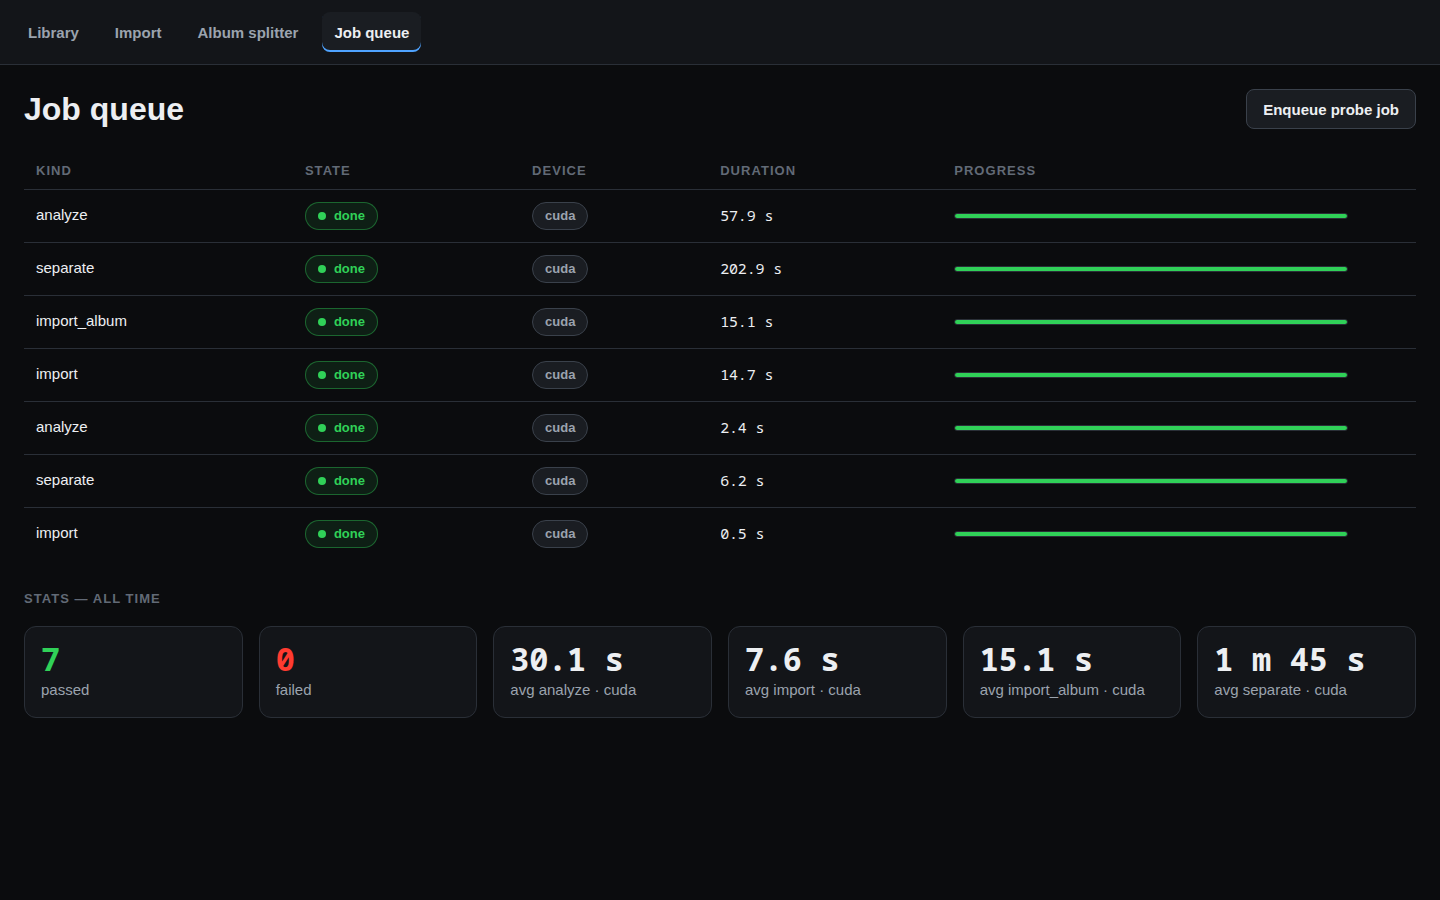
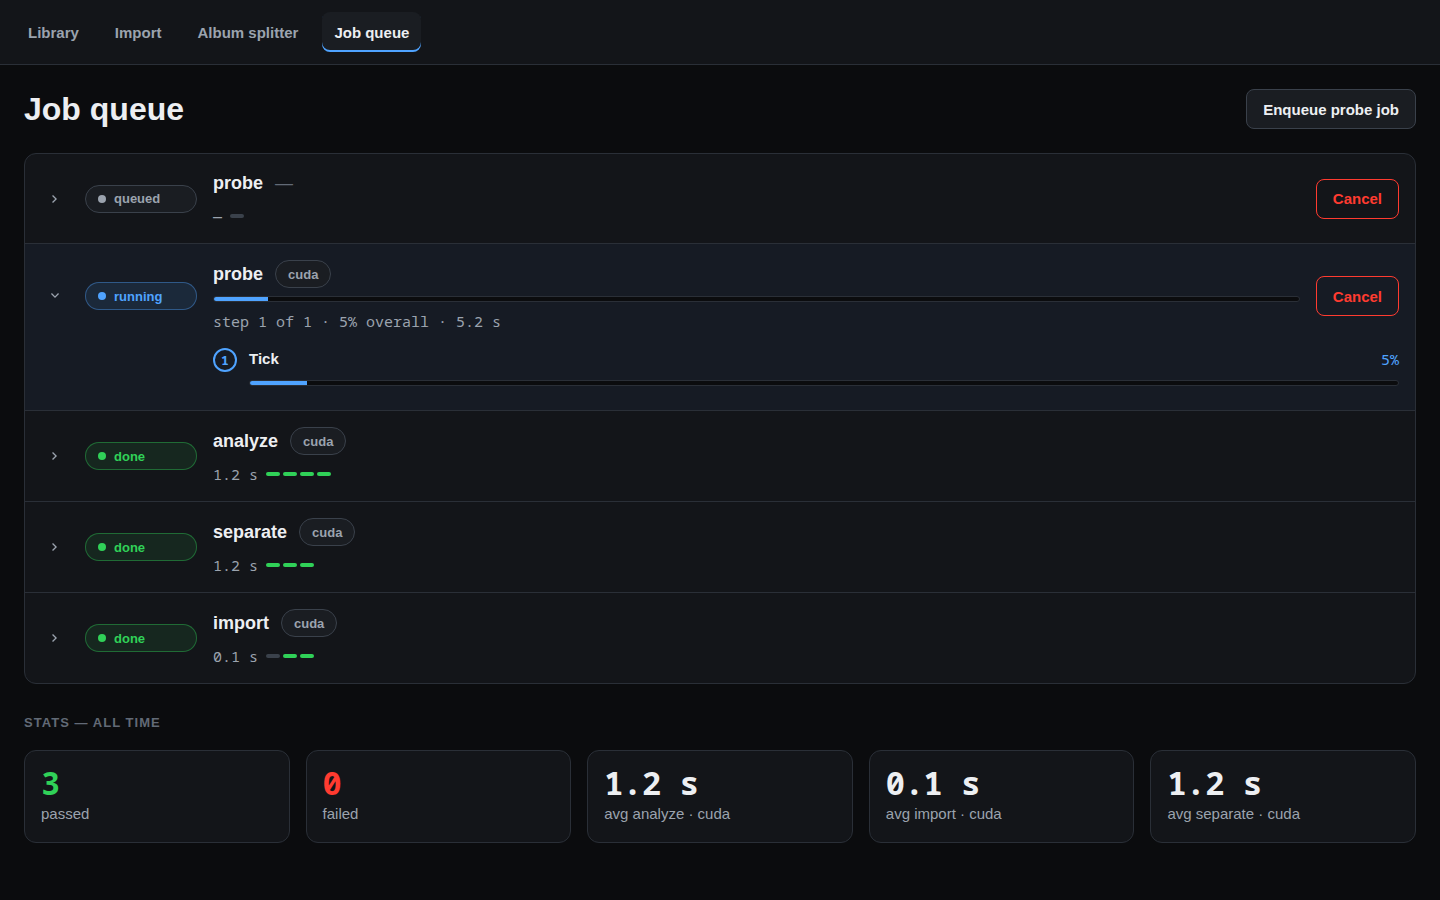
docs(ui): job steps and Import modal in the design system, README and screenshots

diff --git a/design/ui/src/pages/screens/job-queue.html b/design/ui/src/pages/screens/job-queue.html
@@ -1,11 +1,41 @@
-<!-- @dsCard group="Screens" name="Job queue" subtitle="The real operational dashboard (§10): live, history, stats" viewport="1440x1350" -->
+<!-- @dsCard group="Screens" name="Job queue" subtitle="Every job expands to its named, live steps" viewport="1440x1350" -->
 <!doctype html><html lang="en"><head><meta charset="utf-8"><title>Jobs — Stemcraft</title><style>/* @inject */
 .stats{display:grid;grid-template-columns:repeat(auto-fit,minmax(180px,1fr));gap:var(--ds-4)}
 .stat{padding:var(--ds-4);display:flex;flex-direction:column;gap:var(--ds-1)}
 .stat .v{font:600 var(--ds-t-xl)/1 var(--ds-mono);font-variant-numeric:tabular-nums}
-.jobrow{display:grid;grid-template-columns:120px 1fr 200px;gap:var(--ds-4);align-items:center;padding:var(--ds-4);border-bottom:1px solid var(--ds-border)}
-.jobrow:last-child{border-bottom:0}
 .tbl td.num,.tbl th.num{font-family:var(--ds-mono);font-variant-numeric:tabular-nums}
+/* ---- shared StepList component ---- */
+.steps{display:flex;flex-direction:column;gap:var(--ds-3)}
+.step{display:grid;grid-template-columns:24px 1fr auto;column-gap:var(--ds-3);align-items:start;font-size:var(--ds-t-sm)}
+.step .mark{width:24px;height:24px;border-radius:50%;border:2px solid var(--ds-border-strong);display:flex;align-items:center;justify-content:center;font:700 13px/1 var(--ds-mono);color:var(--ds-text-3)}
+.step .lbl{padding-top:1px;min-width:0}
+.step .det{color:var(--ds-text-3);font-weight:400;margin-left:var(--ds-2)}
+.step .dur{padding-top:1px;font-family:var(--ds-mono);font-variant-numeric:tabular-nums;color:var(--ds-text-3)}
+.step .extra{grid-column:2 / 4;margin-top:var(--ds-2)}
+.step.done .mark{background:var(--ds-ok);border-color:var(--ds-ok);color:var(--ds-ground)}
+.step.now .mark{border-color:var(--ds-accent);color:var(--ds-accent)}
+.step.fail .mark{background:var(--ds-error);border-color:var(--ds-error);color:var(--ds-on-error)}
+.step.skip .mark{border-style:dashed;color:var(--ds-text-3)}
+.step.cxl .mark{border-color:var(--ds-text-3);color:var(--ds-text-3)}
+.step.done .lbl{color:var(--ds-text-2)} .step.now .lbl{color:var(--ds-text);font-weight:600}
+.step.todo .lbl,.step.skip .lbl,.step.cxl .lbl{color:var(--ds-text-3)} .step.skip .lbl{text-decoration:line-through}
+.step.fail .lbl{color:var(--ds-error);font-weight:600}
+.step.now .dur{color:var(--ds-accent)}
+/* ---- job rows ---- */
+.jobrow{display:grid;grid-template-columns:28px 112px 1fr auto;gap:var(--ds-4);align-items:center;padding:var(--ds-4);border-bottom:1px solid var(--ds-border)}
+.card > .job:last-child .jobrow,.card > .job:last-child .jobsteps{border-bottom:0}
+.disc{width:28px;height:28px;display:flex;align-items:center;justify-content:center;border:0;background:transparent;color:var(--ds-text-2);border-radius:var(--ds-r-input);cursor:pointer}
+.disc svg{width:18px;height:18px;fill:currentColor;transition:transform var(--ds-m-flip) var(--ds-ease)}
+.job[data-open=true] .disc svg{transform:rotate(90deg)}
+.jobsteps{padding:0 var(--ds-4) var(--ds-5) calc(var(--ds-4) + 28px + 112px + 2 * var(--ds-4));border-bottom:1px solid var(--ds-border)}
+.job.running .jobrow,.job.running .jobsteps{background:rgba(79,163,255,.05)}
+.ministeps{display:inline-flex;gap:3px;vertical-align:middle;margin-left:var(--ds-2)}
+.ministeps i{width:14px;height:4px;border-radius:2px;background:var(--ds-border-strong)}
+.ministeps i.d{background:var(--ds-ok)} .ministeps i.n{background:var(--ds-accent)} .ministeps i.f{background:var(--ds-error)}
+@media (max-width:760px){
+  .jobrow{grid-template-columns:28px 1fr auto}.jobrow > .chipcell{display:none}
+  .jobsteps{padding-left:var(--ds-4)}
+}
 </style></head><body><div class="app">
 
 <div class="topbar">
@@ -27,37 +57,70 @@
   </div>
 
   <div class="card">
-    <div class="jobrow" style="background:rgba(79,163,255,.06)">
-      <span class="chip chip-run"><i class="dot"></i>running</span>
-      <div class="col" style="gap:var(--ds-2);min-width:0">
-        <div class="row"><span class="t-md" style="font-weight:600">separate</span><span class="t-md dim">Teen Town — Weather Report</span><span class="chip chip-warn">cpu</span></div>
-        <div class="bar"><i style="width:18%"></i></div>
-        <span class="t-sm dim num">18% · segment 3 of 17 · started 0:41 ago · ~3 min left</span>
+    <!-- running, auto-open -->
+    <div class="job running" data-open="true">
+      <div class="jobrow">
+        <button class="disc" aria-expanded="true" aria-label="Hide steps"><svg viewBox="0 0 24 24"><path d="M9 6l6 6-6 6-1.4-1.4 4.6-4.6-4.6-4.6z"/></svg></button>
+        <span class="chipcell"><span class="chip chip-run"><i class="dot"></i>running</span></span>
+        <div class="col" style="gap:var(--ds-2);min-width:0">
+          <div class="row"><span class="t-md" style="font-weight:600">separate</span><span class="t-md dim">Tightrope · Walk the Moon</span><span class="chip">cuda</span></div>
+          <div class="bar"><i style="width:57%"></i></div>
+          <span class="t-sm dim num">step 2 of 3 · 57% overall · started 0:14 ago</span>
+        </div>
+        <button class="btn">Cancel</button>
       </div>
-      <div class="row" style="justify-content:flex-end"><button class="btn">Cancel</button></div>
+      <div class="jobsteps"><div class="steps">
+        <div class="step done"><span class="mark">&#10003;</span><span class="lbl">Load audio</span><span class="dur">0.4 s</span></div>
+        <div class="step now"><span class="mark">2</span><span class="lbl">Separate 4 stems<span class="det num">segment 11 of 17</span></span><span class="dur">62%</span>
+          <div class="extra"><div class="bar"><i style="width:62%"></i></div></div></div>
+        <div class="step todo"><span class="mark">3</span><span class="lbl">Write stems</span><span class="dur">—</span></div>
+      </div></div>
     </div>
-    <div class="jobrow">
-      <span class="chip"><i class="dot"></i>queued</span>
-      <div class="col" style="gap:2px"><div class="row"><span class="t-md" style="font-weight:600">separate</span><span class="t-md dim">Longview — Green Day</span></div><span class="t-sm dim3">1 job ahead</span></div>
-      <div class="row" style="justify-content:flex-end"><button class="btn btn-ghost">Cancel</button></div>
+    <!-- queued, collapsed -->
+    <div class="job" data-open="false">
+      <div class="jobrow">
+        <button class="disc" aria-expanded="false" aria-label="Show steps"><svg viewBox="0 0 24 24"><path d="M9 6l6 6-6 6-1.4-1.4 4.6-4.6-4.6-4.6z"/></svg></button>
+        <span class="chipcell"><span class="chip"><i class="dot"></i>queued</span></span>
+        <div class="col" style="gap:2px"><div class="row"><span class="t-md" style="font-weight:600">export</span><span class="t-md dim">Tightrope · no bass, 82%</span></div><span class="t-sm dim3">1 job ahead<span class="ministeps" aria-label="0 of 1 steps done"><i></i></span></span></div>
+        <button class="btn btn-ghost">Cancel</button>
+      </div>
     </div>
-    <div class="jobrow">
-      <span class="chip"><i class="dot"></i>queued</span>
-      <div class="col" style="gap:2px"><div class="row"><span class="t-md" style="font-weight:600">export</span><span class="t-md dim">Tightrope · no bass, 82%</span></div><span class="t-sm dim3">2 jobs ahead</span></div>
-      <div class="row" style="justify-content:flex-end"><button class="btn btn-ghost">Cancel</button></div>
+    <!-- queued, opened by the user -->
+    <div class="job" data-open="true">
+      <div class="jobrow">
+        <button class="disc" aria-expanded="true" aria-label="Hide steps"><svg viewBox="0 0 24 24"><path d="M9 6l6 6-6 6-1.4-1.4 4.6-4.6-4.6-4.6z"/></svg></button>
+        <span class="chipcell"><span class="chip"><i class="dot"></i>queued</span></span>
+        <div class="col" style="gap:2px"><div class="row"><span class="t-md" style="font-weight:600">split_album</span><span class="t-md dim">Rumours · Fleetwood Mac</span></div><span class="t-sm dim3">2 jobs ahead</span></div>
+        <button class="btn btn-ghost">Cancel</button>
+      </div>
+      <div class="jobsteps"><div class="steps">
+        <div class="step todo"><span class="mark">1</span><span class="lbl">Render tracks</span><span class="dur">—</span></div>
+        <div class="step todo"><span class="mark">2</span><span class="lbl">Build zip</span><span class="dur">—</span></div>
+      </div></div>
     </div>
   </div>
 
-  <div class="banner banner-error">
-    <span class="bicon"><svg viewBox="0 0 24 24"><path d="M12 2a10 10 0 100 20 10 10 0 000-20zm-1 5h2v7h-2zm0 9h2v2h-2z"/></svg></span>
-    <div class="banner-body grow">
-      <p class="banner-title" style="color:var(--ds-error)">analyze failed — Come Together</p>
-      <div class="trace">Traceback (most recent call last):
-  File "worker/jobs/analyze.py", line 64, in run
-    key = essentia.standard.KeyExtractor()(audio)
-RuntimeError: KeyExtractor: input audio is shorter than the analysis frame (2048)
-  stem: other.wav — 0.4 s of non-silence after separation</div>
-      <div class="row" style="margin-top:var(--ds-3)"><button class="btn">Re-run</button><button class="btn btn-ghost">Copy traceback</button><button class="btn btn-ghost">Open song</button></div>
+  <!-- failed job, inline -->
+  <div class="card">
+    <div class="job" data-open="true">
+      <div class="jobrow">
+        <button class="disc" aria-expanded="true" aria-label="Hide steps"><svg viewBox="0 0 24 24"><path d="M9 6l6 6-6 6-1.4-1.4 4.6-4.6-4.6-4.6z"/></svg></button>
+        <span class="chipcell"><span class="chip chip-error"><i class="dot"></i>failed</span></span>
+        <div class="col" style="gap:2px"><div class="row"><span class="t-md" style="font-weight:600">analyze</span><span class="t-md dim">Come Together · The Beatles</span><span class="chip">cpu</span></div><span class="t-sm num" style="color:var(--ds-error)">failed at step 1 of 4 · Key</span></div>
+        <span></span>
+      </div>
+      <div class="jobsteps"><div class="steps">
+        <div class="step fail"><span class="mark">!</span><span class="lbl">Key</span><span class="dur">0.6 s</span>
+          <div class="extra"><div class="trace" style="margin-top:0">Traceback (most recent call last):
+  File "stemcraft_worker/kinds/analyze_song.py", line 42, in run
+    key_candidates = detect_key(...)
+RuntimeError: input audio is shorter than the analysis frame (2048)
+  stem: other.wav: 0.4 s of non-silence after separation</div>
+          </div></div>
+        <div class="step todo"><span class="mark">2</span><span class="lbl">Beat grid</span><span class="dur">—</span></div>
+        <div class="step todo"><span class="mark">3</span><span class="lbl">Chords</span><span class="dur">—</span></div>
+        <div class="step todo"><span class="mark">4</span><span class="lbl">Write analysis</span><span class="dur">—</span></div>
+      </div></div>
     </div>
   </div>
 

diff --git a/design/ui/src/pages/screens/import.html b/design/ui/src/pages/screens/import.html
@@ -1,64 +1,48 @@
-<!-- @dsCard group="Screens" name="Import" subtitle="File or URL, prefilled tags, honest pipeline states" viewport="1200x1215" -->
+<!-- @dsCard group="Screens" name="Import" subtitle="One source zone, then the song's jobs step by step" viewport="1200x1215" -->
 <!doctype html><html lang="en"><head><meta charset="utf-8"><title>Import — Stemcraft</title><style>/* @inject */
+/* source zone */
+.source{border:2px dashed var(--ds-border-strong);border-radius:var(--ds-r-panel);padding:var(--ds-5);display:flex;flex-direction:column;gap:var(--ds-4);background:rgba(255,255,255,.015)}
+.source .filepart{text-align:center;color:var(--ds-text-2)}
+.or{display:flex;align-items:center;gap:var(--ds-3);color:var(--ds-text-3)}
+.or::before,.or::after{content:"";flex:1;height:1px;background:var(--ds-border)}
+.chosen{padding:var(--ds-3) var(--ds-4);gap:var(--ds-3)}
+.chosen .ico{color:var(--ds-ok);display:flex}
+.chosen .txt{min-width:0;overflow:hidden;text-overflow:ellipsis;white-space:nowrap}
 .grid2{display:grid;grid-template-columns:1fr 1fr;gap:var(--ds-4)}
+@media (max-width:520px){.grid2{grid-template-columns:1fr}}
+.hint{margin:calc(-1 * var(--ds-3)) 0 0}
+.req{color:var(--ds-accent)}
+/* steps (from the existing mockup) */
 .steps{display:flex;flex-direction:column;gap:var(--ds-3)}
-.step{display:flex;align-items:center;gap:var(--ds-3);font-size:var(--ds-t-sm)}
+.step{display:flex;align-items:flex-start;gap:var(--ds-3);font-size:var(--ds-t-sm)}
 .step .mark{width:24px;height:24px;border-radius:50%;border:2px solid var(--ds-border-strong);flex:none;display:flex;align-items:center;justify-content:center;font:700 13px/1 var(--ds-mono);color:var(--ds-text-3)}
+.step .body{display:flex;flex-direction:column;gap:var(--ds-2);flex:1;min-width:0;padding-top:1px}
 .step.done .mark{background:var(--ds-ok);border-color:var(--ds-ok);color:var(--ds-ground)}
 .step.now .mark{border-color:var(--ds-accent);color:var(--ds-accent)}
-.step.done span{color:var(--ds-text-2)}
-.step.now span{color:var(--ds-text);font-weight:600}
-.step.todo span{color:var(--ds-text-3)}
+.step.fail .mark{background:var(--ds-error);border-color:var(--ds-error);color:var(--ds-on-error)}
+.step.done .lbl{color:var(--ds-text-2)} .step.now .lbl{color:var(--ds-text);font-weight:600}
+.step.todo .lbl{color:var(--ds-text-3)} .step.fail .lbl{color:var(--ds-error);font-weight:600}
+.modal{max-width:560px}
 </style></head><body><div class="scrim"><div class="modal">
-
-  <div class="modal-head">
-    <div class="col" style="gap:2px">
-      <span class="t-lg">Add song</span>
-      <span class="t-sm dim">No format whitelist — if ffmpeg decodes it, it is accepted</span>
-    </div>
-    <button class="iconbtn" aria-label="Close"><svg viewBox="0 0 24 24"><path d="M19 6.4L17.6 5 12 10.6 6.4 5 5 6.4 10.6 12 5 17.6 6.4 19 12 13.4 17.6 19 19 17.6 13.4 12z"/></svg></button>
-  </div>
-
-  <div class="modal-body">
-    <div class="seg" style="align-self:flex-start"><button aria-selected="true">Upload</button><button>URL</button></div>
-
-    <div class="drop">
-      <svg viewBox="0 0 24 24" width="40" height="40" fill="var(--ds-text-3)"><path d="M12 3l5 5h-3v6h-4V8H7l5-5zM5 18h14v2H5z"/></svg>
-      <div class="t-md" style="color:var(--ds-text);margin-top:var(--ds-2)">Drop an audio or video file</div>
-      <div class="t-sm" style="margin-top:var(--ds-1)">Video is accepted — the audio track is extracted</div>
-      <button class="btn" style="margin-top:var(--ds-4)">Choose file…</button>
-    </div>
-
-    <div class="row panel" style="padding:var(--ds-3) var(--ds-4);gap:var(--ds-3)">
-      <span style="color:var(--ds-ok)"><svg viewBox="0 0 24 24" width="20" height="20" fill="currentColor"><path d="M9 16.2L4.8 12l-1.4 1.4L9 19 21 7l-1.4-1.4z"/></svg></span>
-      <span class="t-sm num grow">tightrope.flac · 41.2 MB · 44.1 kHz · 2 ch</span>
-      <button class="btn btn-ghost" style="min-height:32px">Replace</button>
-    </div>
-
-    <div class="grid2">
-      <div class="field"><label for="t">Title</label><input class="input" id="t" value="Tightrope"></div>
-      <div class="field"><label for="a">Artist</label><input class="input" id="a" value="Walk the Moon"></div>
-    </div>
-    <p class="t-sm dim3" style="margin:calc(-1 * var(--ds-3)) 0 0">Prefilled from the file's own tags. There is no online lookup anywhere in this app — every field is yours to type.</p>
-
-    <hr class="divider">
-
-    <div class="col" style="gap:var(--ds-3)">
-      <span class="cap">what happens next</span>
-      <div class="steps">
-        <div class="step done"><span class="mark">&#10003;</span><span>Keep the original, untouched, forever</span></div>
-        <div class="step now"><span class="mark">2</span><span>Decode to 48 kHz stereo WAV and normalize</span></div>
-        <div class="step todo"><span class="mark">3</span><span>Compute waveform peaks</span></div>
-        <div class="step todo"><span class="mark">4</span><span>Queue separation — 4 stems, ~20 s on cuda</span></div>
-        <div class="step todo"><span class="mark">5</span><span>Analyze key, beat grid and chords — a few seconds on CPU</span></div>
+      <div class="modal-head">
+        <div class="col" style="gap:2px"><span class="t-lg">Add song</span><span class="t-sm dim">No format whitelist. If ffmpeg decodes it, it is accepted.</span></div>
+        <button class="iconbtn" aria-label="Close"><svg viewBox="0 0 24 24"><path d="M19 6.4L17.6 5 12 10.6 6.4 5 5 6.4 10.6 12 5 17.6 6.4 19 12 13.4 17.6 19 19 17.6 13.4 12z"/></svg></button>
       </div>
-      <div class="bar"><i style="width:34%"></i></div>
-    </div>
-  </div>
-
-  <div class="modal-foot">
-    <button class="btn btn-ghost">Cancel</button>
-    <button class="btn btn-primary">Import &amp; separate</button>
-  </div>
-
+      <div class="modal-body">
+        <div class="source">
+          <div class="filepart">
+            <svg viewBox="0 0 24 24" width="36" height="36" fill="var(--ds-text-3)"><path d="M12 3l5 5h-3v6h-4V8H7l5-5zM5 18h14v2H5z"/></svg>
+            <div class="t-md" style="color:var(--ds-text);margin-top:var(--ds-2)">Drop an audio or video file</div>
+            <div class="t-sm" style="margin-top:var(--ds-1)">For video, the audio track is extracted</div>
+            <button class="btn" style="margin-top:var(--ds-4)">Choose file…</button>
+          </div>
+          <div class="or t-sm">or paste a link</div>
+          <div class="field"><input class="input" id="u1" placeholder="https://… (YouTube and direct media links)"></div>
+        </div>
+        <div class="grid2">
+          <div class="field"><label>Title</label><input class="input" placeholder=""></div>
+          <div class="field"><label>Artist</label><input class="input"></div>
+        </div>
+      </div>
+      <div class="modal-foot"><button class="btn btn-ghost">Cancel</button><button class="btn btn-primary" disabled>Import &amp; separate</button></div>
 </div></div></body></html>

diff --git a/README.md b/README.md
@@ -3,7 +3,9 @@
 Self-hosted, single-user web app that splits songs into stems so you can mute your own
 instrument and play along.
 
-- Import a file or a YouTube link; any format ffmpeg can decode is accepted
+- Add a song from a file or a link (YouTube and direct media) in one dialog; any format
+  ffmpeg can decode is accepted. The dialog then follows the import, separation and
+  analysis live, step by step
 - GPU stem separation into vocals, drums, bass and other
 - Live mixer: mute, solo and volume per stem
 - Song view time axis: the wheel zooms at the pointer, dragging across the lanes zooms to
@@ -16,19 +18,21 @@ instrument and play along.
   drag, add and delete cuts, or type exact start and end times to the millisecond, then
   download a zip
 - Export the current mix
-- Job queue screen with all-time stats: passed and failed counts and the average duration per
-  job kind and device
+- Job queue screen: every job expands to its named steps, live, with a duration each and a
+  failure's real traceback under the step that failed; all-time stats with passed and
+  failed counts and the average duration per job kind and device
 - Failures and CPU fallbacks are shown in the UI with the real error message
 
 ## Screens
 
 ![Library](docs/screenshots/library.png)
+![Add song](docs/screenshots/import.png)
 ![Song view](docs/screenshots/song-view.png)
 ![Album splitter](docs/screenshots/album-splitter.png)
 ![Job queue](docs/screenshots/job-queue.png)
 
-All four are captures of the running app, made with
-`node scripts/capture-screens.mjs library=/ song-view=/songs/<id> album-splitter=/splitter/<id> job-queue=/jobs`
+All five are captures of the running app, made with
+`node scripts/capture-screens.mjs library=/ import=/import song-view=/songs/<id> album-splitter=/splitter/<id> job-queue=/jobs`
 (API and dev server running; it only loads the pages). The design system these follow —
 tokens, components and screen mockups — is in [design/ui](design/ui) (build it with
 `python3 design/ui/build.py`), with its rules in [design/ui-spec.md](design/ui-spec.md).
